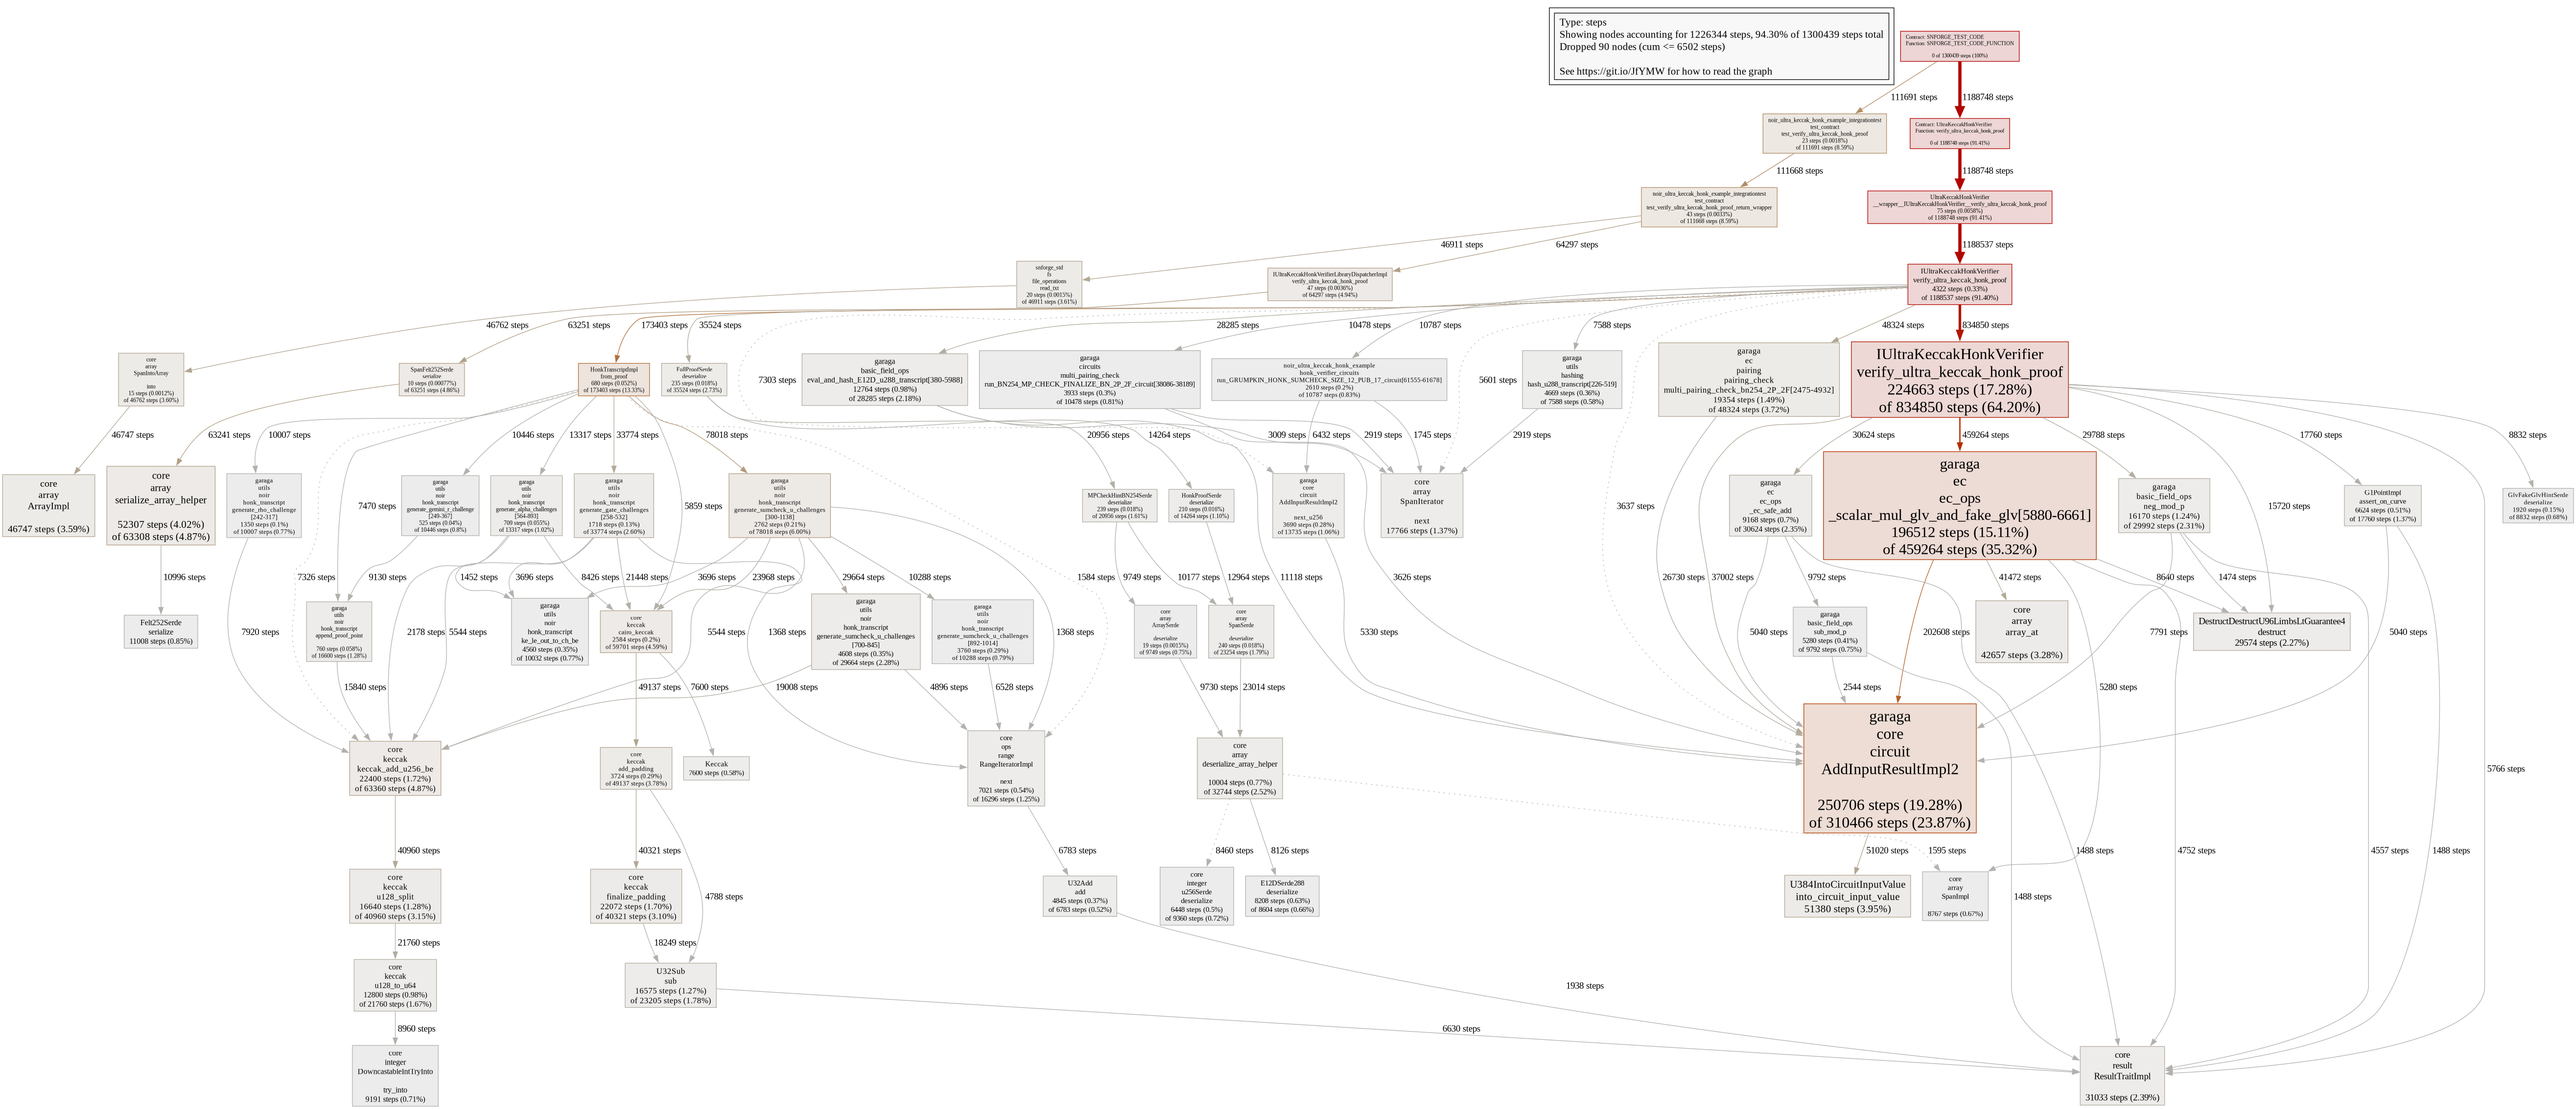
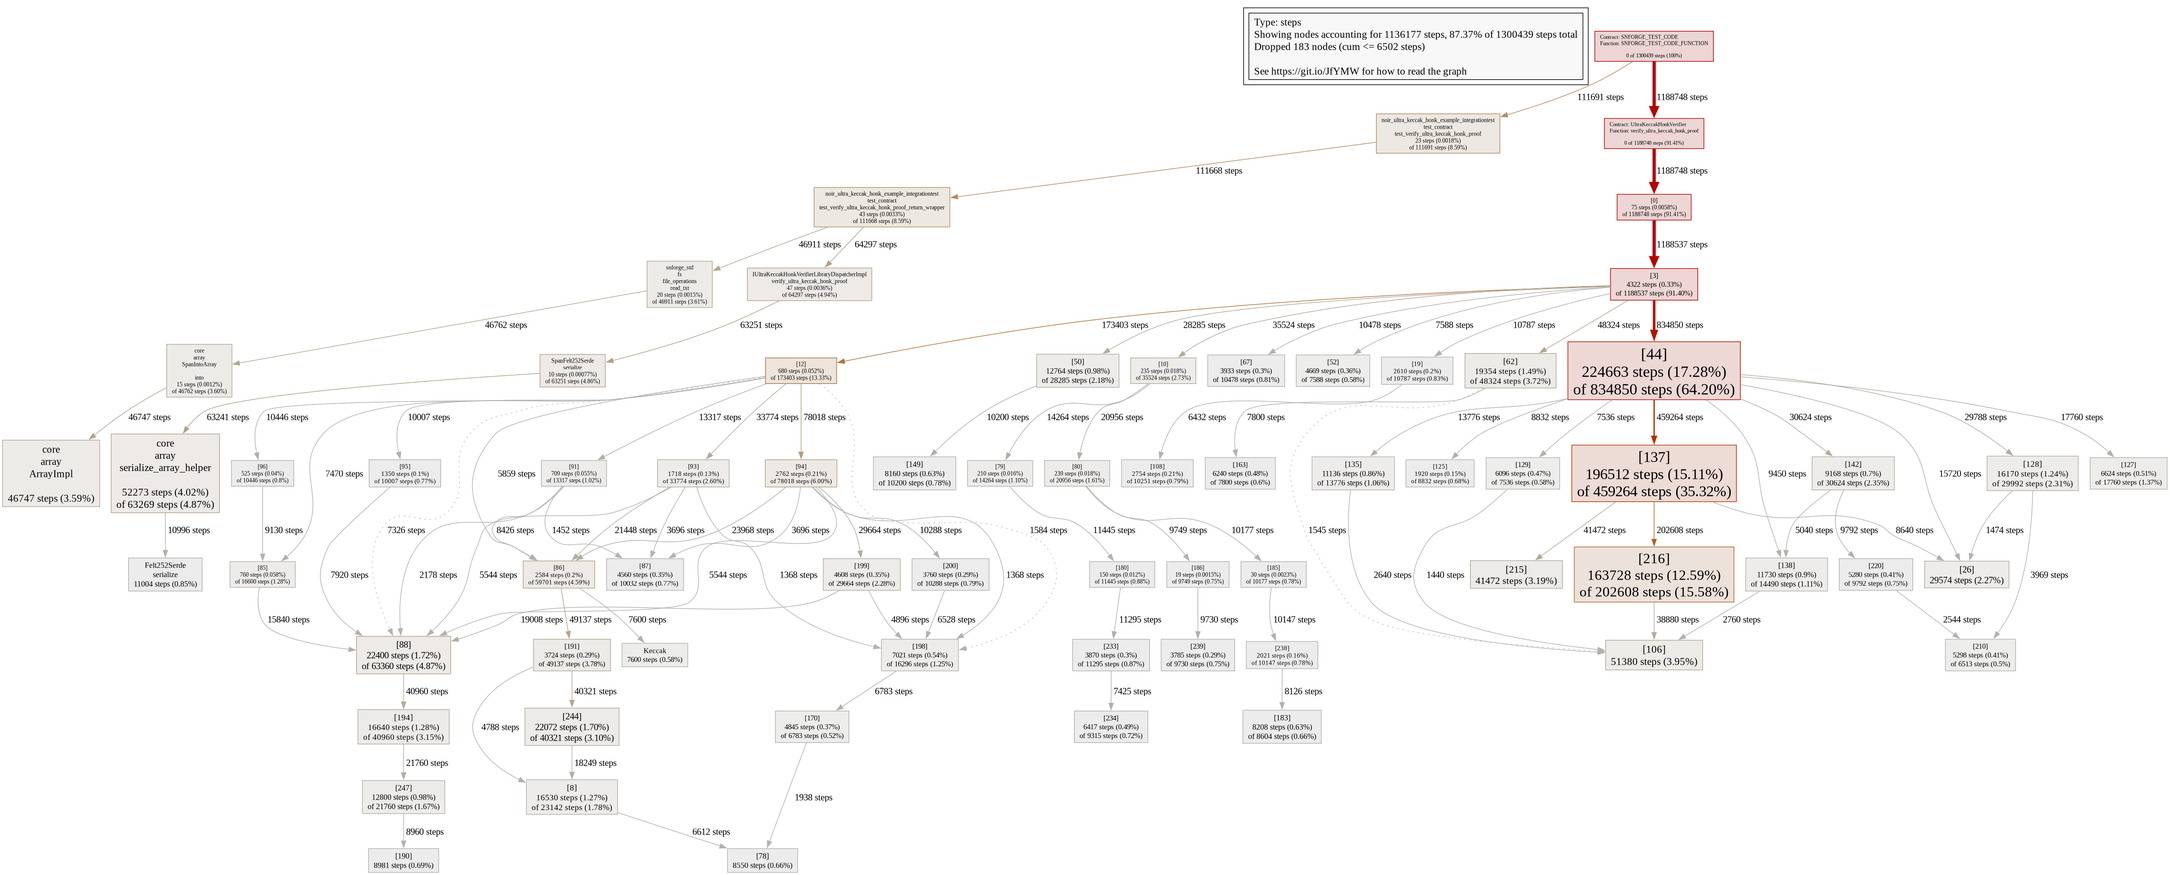
Update cairo compiler configuration

diff --git a/hydra/garaga/starknet/groth16_contract_generator/generator.py b/hydra/garaga/starknet/groth16_contract_generator/generator.py
@@ -155,7 +155,7 @@ garaga = {{ {dep} }}
 starknet = "{CAIRO_VERSION}"
 
 [cairo]
-sierra-replace-ids = true
+sierra-replace-ids = false
 inlining-strategy = {inlining_level}
 
 [dev-dependencies]

diff --git a/README.md b/README.md
@@ -132,7 +132,7 @@ Check the profile file for more details.
 
 | Test Name                                                                                            | Steps     | Range Check   | Range Check 96   | Bitwise   |   Poseidon | Add Mod   | Mul Mod   | Sierra Gas   |
 |------------------------------------------------------------------------------------------------------|-----------|---------------|------------------|-----------|------------|-----------|-----------|--------------|
-| [test_verify_ultra_keccak_zk_honk_proof](docs/benchmarks/test_verify_ultra_keccak_zk_honk_proof.png) | 1,401,065 | 73,884        | 452,092          | 3,476     |        608 | 49,930    | 48,054    | 213,429,084  |
+| [test_verify_ultra_keccak_zk_honk_proof](docs/benchmarks/test_verify_ultra_keccak_zk_honk_proof.png) | 1,399,701 | 73,900        | 451,836          | 3,476     |        608 | 49,914    | 48,030    | 213,261,292  |
 
 </details>
 
@@ -150,7 +150,7 @@ Check the profile file for more details.
 
 | Test Name                                                                                                | Steps     | Range Check   | Range Check 96   | Poseidon   | Add Mod   | Mul Mod   | Sierra Gas   |
 |----------------------------------------------------------------------------------------------------------|-----------|---------------|------------------|------------|-----------|-----------|--------------|
-| [test_verify_ultra_starknet_zk_honk_proof](docs/benchmarks/test_verify_ultra_starknet_zk_honk_proof.png) | 1,260,556 | 66,600        | 451,134          | 1,191      | 49,860    | 47,958    | 197,000,317  |
+| [test_verify_ultra_starknet_zk_honk_proof](docs/benchmarks/test_verify_ultra_starknet_zk_honk_proof.png) | 1,262,593 | 66,624        | 451,761          | 1,191      | 49,911    | 48,024    | 197,292,403  |
 
 </details>
 
@@ -389,7 +389,6 @@ Check the profile file for more details.
 
 ---
 🔄 **To regenerate these benchmarks:** Run `make profile-test` from the project root.
-
 ## Support & How to Contribute
 
 We warmly welcome contributions and support from the community! Here's how you can help Garaga grow and improve:
